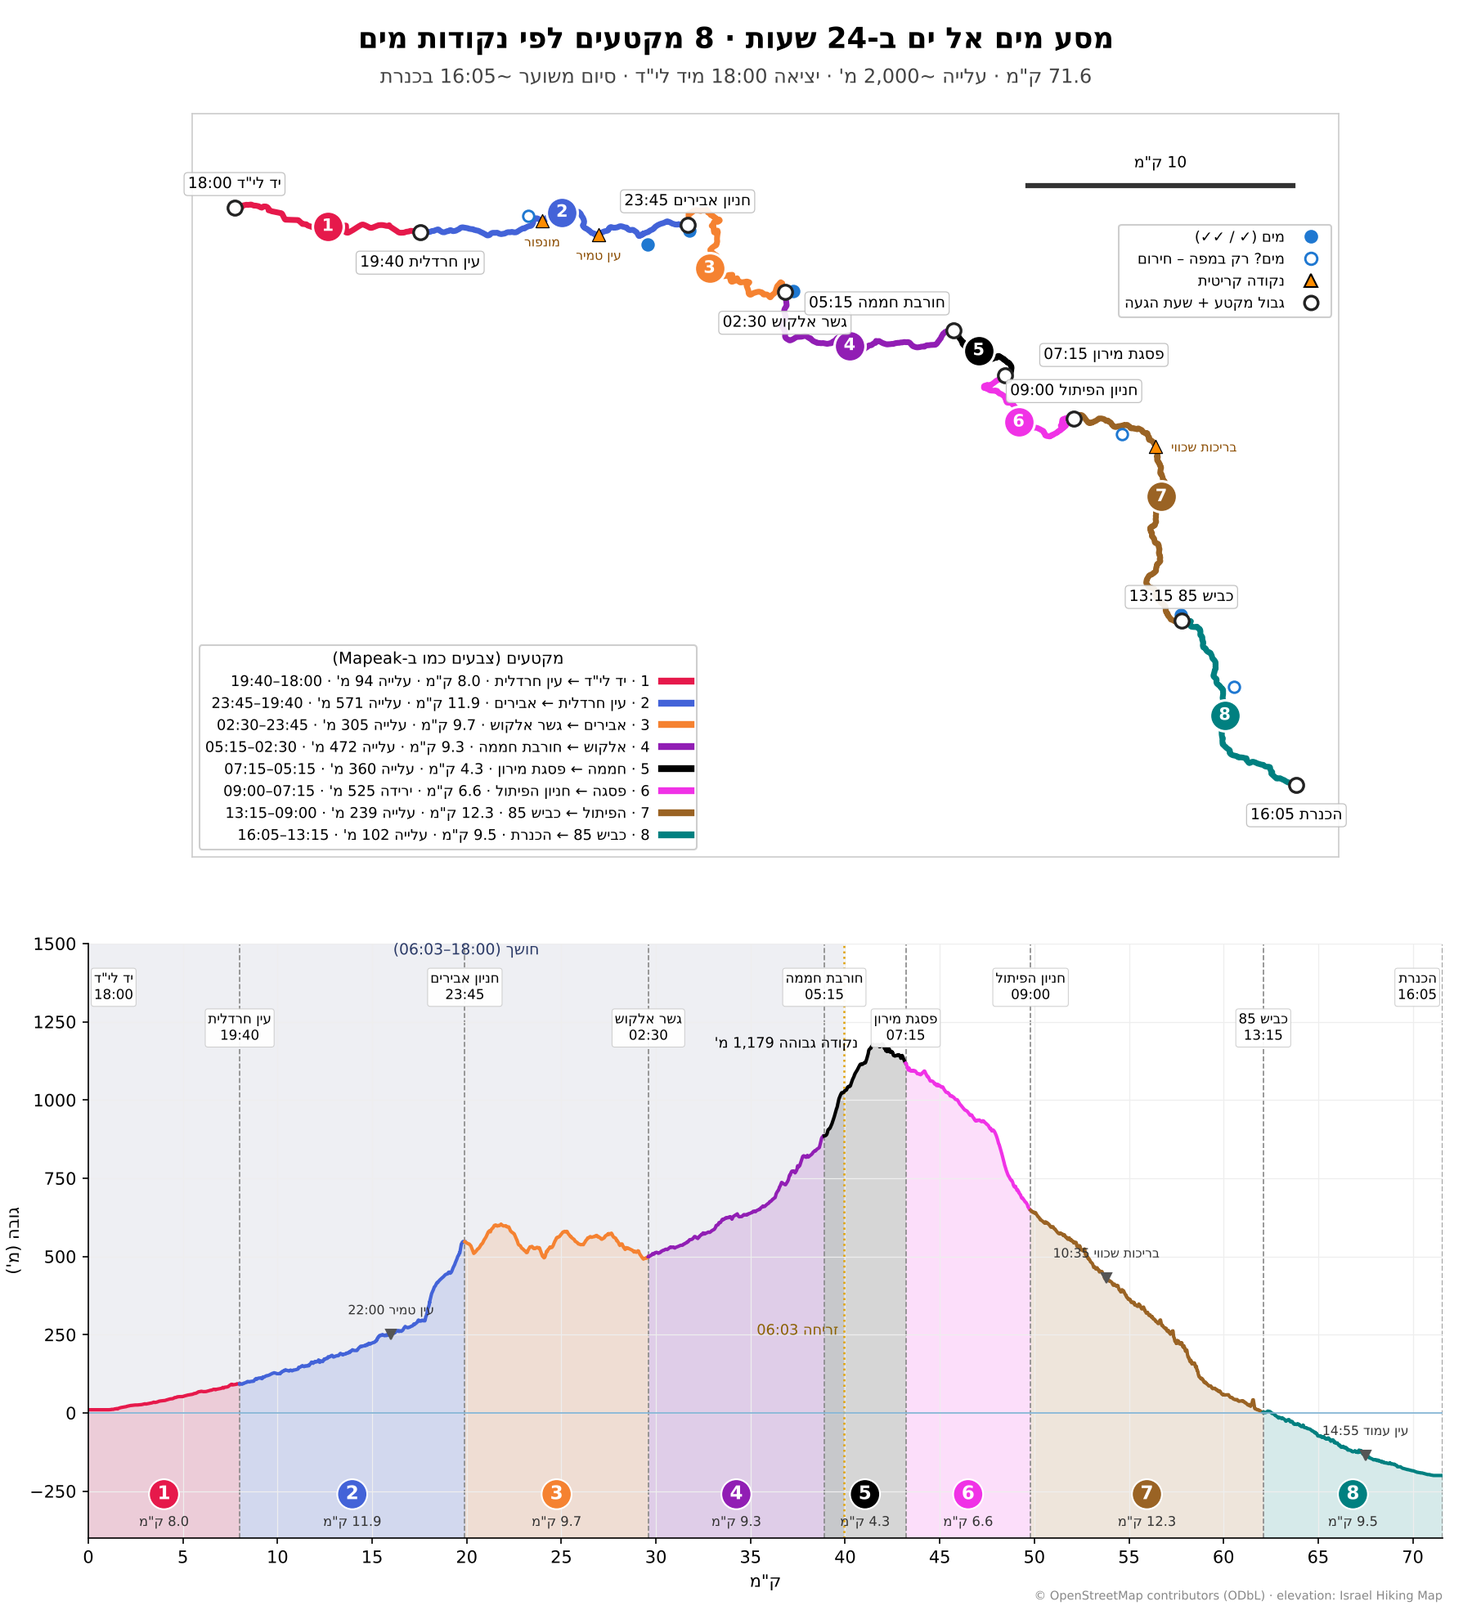
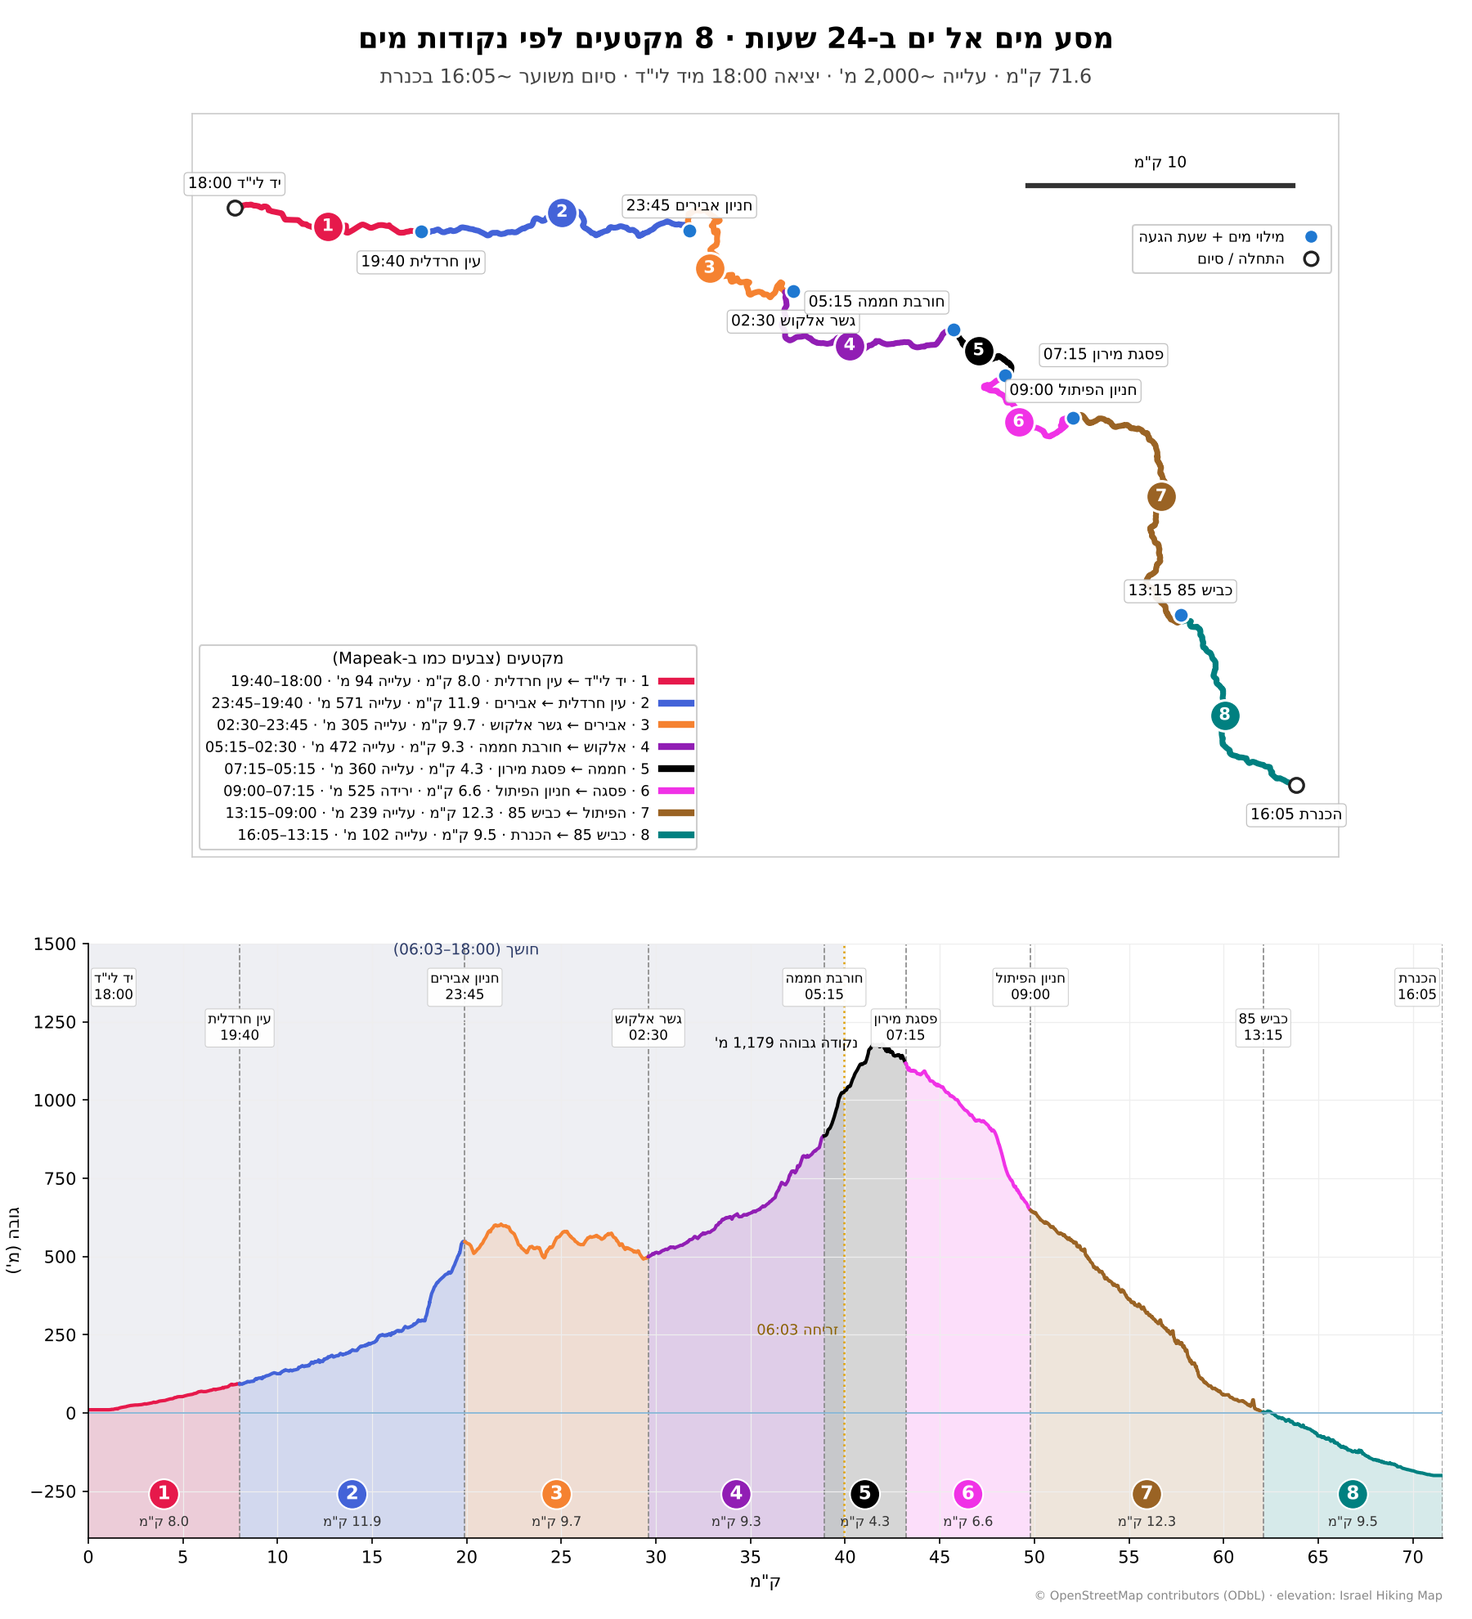
Mark only the 7 water refill points in the Yam-el-Yam GPX
Drop the warning, stop, finish and backup/emergency water waypoints:
the GPX now carries one waypoint per refill point (Ein Hardalit,
Avirim, Alkosh, Hamama, Meron summit, HaPitul, Road 85) with a short
water-only note. The preview map shows the same points.

Claude-Session: https://claude.ai/code/session_01MNH4TYKaUTJ7EVXjw48Bsd

diff --git a/yam-el-yam/build_gpx.py b/yam-el-yam/build_gpx.py
@@ -9,7 +9,7 @@ Steps:
   3. Add elevations from the Israel Hiking Map API (200 points per request).
   4. Cut the track at the water points (km 0, 8.0, 19.9, 29.6, 38.9, 43.2,
      49.8, 62.1, end) into 8 colored <trk> elements that Mapeak can show.
-  5. Add <wpt> for the water points and the critical points.
+  5. Add a <wpt> for each water refill point, and nothing else.
 
 Outputs (in --out):
   yam-el-yam-color-segments.gpx    8 colored tracks + waypoints (load this one into Mapeak)
@@ -66,51 +66,20 @@ SEGMENTS = [
      "בכנרת: חזירי בר בשביל הבמבוק וכלבים משוטטים."),
 ]
 
-# Water points: plan km, name, lat, lon, reliability, description.
-# Reliability: "✓✓" several sources, "✓" report from Aug 2026, "?" only on the map.
-WATER = [
-    (0.0, 'יד לי"ד', 33.0507888, 35.1033871, "✓",
-     "התחלה. הברז היה תקול במרץ 2025 – לא לסמוך עליו: יוצאים עם 3 ל' מהבית."),
-    (8.0, "עין חרדלית", 33.04234, 35.1783894, "✓",
-     "על השביל. להשלים ל-3 ל'. עצירה 10 דק' (~19:40). לא שותים ממי נחל כזיב (הנחיית רט\"ג)."),
-    (12.8, "פארק גורן", 33.0476962, 35.221841, "?",
-     "רק במפה. 250 מ' בעלייה. חירום בלבד."),
-    (18.0, "עין זיו", 33.0379679, 35.2701392, "✓",
-     "סטייה של ~430 מ'. רק אם נשאר פחות מ-1 ל'."),
-    (19.9, "חניון אבירים", 33.0428189, 35.2868911, "✓✓",
-     "300 מ' מהחיבור לכביש 8925 לכיוון אבירים, משמאל. 2 ל'. "
-     "עצירה 25 דק' (~23:45): אוכל, גרביים. שער 1: להגיע עד 01:00."),
-    (29.6, "גשר אלקוש", 33.0222440, 35.3288989, "✓✓",
-     "תחנת דלק (חורפיש) + מכולת מנטה, 24/7, ~300 מ'. 2 ל'. עצירה 10 דק' (~02:30): קפה."),
-    (38.9, "חורבת חממה", 33.0090773, 35.3936043, "✓✓",
-     "על השביל. 1.5 ל'. גיבוי: בי\"ס שדה מירון 300 מ'. "
-     "עצירה 25 דק' (~05:15): ארוחה, גרביים, קפה."),
-    (43.2, "חניון פסגת מירון", 32.9935301, 35.41435, "✓✓",
-     "על השביל. 1.5 ל'. עצירה 10 דק' (~07:15). שער 2: להגיע עד 08:30."),
-    (49.8, "חניון הפיתול", 32.979093, 35.442061, "✓✓",
-     "על השביל. 3 ל' מלא. גיבוי: תחנת דלק במירון ~900 מ'. עצירה 25 דק' (~09:00). "
-     "שער 3: יוצאים עד 10:00, אחרת מסיימים בכביש 866."),
-    (52.0, "חניון שמורת נחל עמוד", 32.9736964, 35.4618467, "?",
-     "רק במפה. ~300 מ'. חירום."),
-    (62.1, "כביש 85 – ברז מקורות", 32.912308, 35.4853811, "✓✓",
-     "בצד המערבי של המתחם, מצפון לכביש. ~220 מ'. 3 ל' מלא – מים אחרונים. "
-     "עצירה 15 דק' (~13:15). שער 4: יוצאים עד 14:00, אחרת לא נכנסים לעמוד התחתון בחושך."),
-    (65.8, "ליד כחל", 32.8880369, 35.5070891, "?",
-     "רק במפה. 440 מ'. חירום."),
+# Water refill points, the only waypoints in the GPX (one at the start of each segment
+# after the first): plan km, name, lat, lon, what to know there.
+REFILL = [
+    (8.0, "עין חרדלית", 33.04234, 35.1783894, "ברז על השביל. ממלאים ל-3 ל'."),
+    (19.9, "חניון אבירים", 33.0428189, 35.2868911,
+     "ברז בחניון הלילה, 300 מ' מהחיבור לכביש 8925 לכיוון אבירים, משמאל. 2 ל'."),
+    (29.6, "גשר אלקוש", 33.0222440, 35.3288989,
+     "תחנת הדלק (חורפיש) ומכולת מנטה, פתוחות 24/7, כ-300 מ' מהשביל. 2 ל'."),
+    (38.9, "חורבת חממה", 33.0090773, 35.3936043, "ברז על השביל. 1.5 ל'. גיבוי: בי\"ס שדה מירון, 300 מ'."),
+    (43.2, "חניון פסגת מירון", 32.9935301, 35.41435, "ברז על השביל. 1.5 ל'."),
+    (49.8, "חניון הפיתול", 32.979093, 35.442061, "ברז על השביל. 3 ל' מלא. גיבוי: תחנת דלק במירון, כ-900 מ'."),
+    (62.1, "כביש 85 – ברז מקורות", 32.912308, 35.4853811,
+     "בצד המערבי של המתחם, מצפון לכביש, כ-220 מ' מהשביל. 3 ל' מלא – מים אחרונים."),
 ]
-
-# Critical points placed on the route by km: km, name, description, kind, short map label.
-ROUTE_POINTS = [
-    (13.1, "מתחת למונפור", "לא עולים למבצר. אם הנחל גבוה, הולכים בדרך העפר שבגדה.", "warn", "מונפור"),
-    (16.0, "עין טמיר – פנייה לאבירים",
-     "מכאן עולים לאבירים – קל לפספס את הפנייה. עצירה 15 דק' (~22:00).", "warn", "עין טמיר"),
-    (53.8, "בריכות שכווי", "מכאן קטעי יתדות וסלע. לאט ובזוג. עצירה 10 דק' (~10:35).", "warn",
-     "בריכות שכווי"),
-    (67.5, "עין עמוד", "עצירה 10 דק' (~14:55).", "stop", "עין עמוד"),
-]
-
-END_DESC = ("סוף המסלול (~16:05). מים: ברזיות בחוף חוקוק ~1 ק\"מ צפונה, ותחנת דלק דור אלון ליד כביש 90. "
-            "בכנרת: חזירי בר בשביל הבמבוק וכלבים משוטטים.")
 
 # Plan: km, arrival (clock), stop minutes, name. Used for the preview and for the
 # km at sunrise. Arrival times after midnight belong to the next day.
@@ -417,28 +386,21 @@ def render_png(path, segs, wpts, pts, cum, sched, sunrise_km, ascent):
         ax.scatter([mid[1]], [mid[0]], s=330, color=s["color"], edgecolor="white", linewidth=1.5, zorder=6)
         ax.text(mid[1], mid[0], str(s["n"]), color="white", ha="center", va="center", fontsize=10,
                 weight="bold", zorder=7)
-    for w in wpts:
-        if w["type"] == "מים":
-            hollow = w["rel"] == "?"
-            ax.scatter([w["lon"]], [w["lat"]], s=42, marker="o", zorder=8,
-                       facecolor="white" if hollow else "#1f78d1", edgecolor="#1f78d1", linewidth=1.4)
-        elif w["type"] == "זהירות":
-            ax.scatter([w["lon"]], [w["lat"]], s=60, marker="^", color="#ff8c00", edgecolor="black",
-                       linewidth=0.6, zorder=8)
-            dx, dy, ha = (9, -1, "left") if w["short"] == "בריכות שכווי" else (0, -13, "center")
-            ax.annotate(H(w["short"]), (w["lon"], w["lat"]), xytext=(dx, dy), textcoords="offset points",
-                        ha=ha, va="center", fontsize=7.5, color="#8a4b00", zorder=8)
-    # boundary labels: name + planned arrival
+    # start, the refill points (at the tap itself) and the end, each with its planned arrival
     label_pos = {0: (0, 14), 1: (0, -18), 2: (0, 14), 3: (0, -18), 4: (-45, 16), 5: (58, 12), 6: (0, 16),
                  7: (0, 14), 8: (0, -18)}
     bounds = [s["s0"] for s in segs] + [segs[-1]["s1"]]
     names = [s["from_full"] for s in segs] + ["הכנרת"]
     times = [s["time"].split("–")[0] for s in segs] + [segs[-1]["time"].split("–")[1]]
     for j, (b, nm, tm) in enumerate(zip(bounds, names, times)):
-        p = point_at(pts, cum, b)
-        ax.scatter([p[1]], [p[0]], s=70, color="white", edgecolor="#222", linewidth=1.6, zorder=9)
+        if 0 < j < len(bounds) - 1:
+            lat, lon = wpts[j - 1]["lat"], wpts[j - 1]["lon"]
+            ax.scatter([lon], [lat], s=80, color="#1f78d1", edgecolor="white", linewidth=1.4, zorder=9)
+        else:
+            lat, lon, _ = point_at(pts, cum, b)
+            ax.scatter([lon], [lat], s=70, color="white", edgecolor="#222", linewidth=1.6, zorder=9)
         dx, dy = label_pos[j]
-        ax.annotate(H(f"{nm} {tm}"), (p[1], p[0]), xytext=(dx, dy), textcoords="offset points",
+        ax.annotate(H(f"{nm} {tm}"), (lon, lat), xytext=(dx, dy), textcoords="offset points",
                     ha="center", va="center", fontsize=9, zorder=10,
                     bbox=dict(boxstyle="round,pad=0.25", fc="white", ec="#bbb", lw=0.6, alpha=0.9))
     ax.set_aspect(1 / math.cos(math.radians(lat0)))
@@ -463,13 +425,10 @@ def render_png(path, segs, wpts, pts, cum, sched, sunrise_km, ascent):
     leg1 = ax.legend(seg_handles, seg_labels, loc="lower left", fontsize=8.6, frameon=True, framealpha=0.95,
                      markerfirst=False, title=H("מקטעים (צבעים כמו ב-Mapeak)"), title_fontsize=9.5)
     ax.add_artist(leg1)
-    mk = [Line2D([], [], marker="o", ls="", markerfacecolor="#1f78d1", markeredgecolor="#1f78d1", markersize=7),
-          Line2D([], [], marker="o", ls="", markerfacecolor="white", markeredgecolor="#1f78d1", markersize=7,
-                 markeredgewidth=1.4),
-          Line2D([], [], marker="^", ls="", color="#ff8c00", markeredgecolor="black", markersize=8),
+    mk = [Line2D([], [], marker="o", ls="", markerfacecolor="#1f78d1", markeredgecolor="white", markersize=8),
           Line2D([], [], marker="o", ls="", markerfacecolor="white", markeredgecolor="#222", markersize=8,
                  markeredgewidth=1.6)]
-    ax.legend(mk, [H("מים (✓ / ✓✓)"), H("מים? רק במפה – חירום"), H("נקודה קריטית"), H("גבול מקטע + שעת הגעה")],
+    ax.legend(mk, [H("מילוי מים + שעת הגעה"), H("התחלה / סיום")],
               loc="upper right", bbox_to_anchor=(1.0, 0.86), fontsize=8.6, framealpha=0.95, markerfirst=False)
 
     # ---- elevation profile
@@ -494,13 +453,6 @@ def render_png(path, segs, wpts, pts, cum, sched, sunrise_km, ascent):
         ha = "left" if j == 0 else "right" if j == len(bounds) - 1 else "center"
         ax2.text(x + {"left": 0.3, "right": -0.3, "center": 0}[ha], y, H(f"{nm}\n{tm}"), ha=ha, va="center",
                  fontsize=8, zorder=5, bbox=dict(boxstyle="round,pad=0.2", fc="white", ec="#ccc", lw=0.5, alpha=0.95))
-    for km, arr, _, nm in sched:
-        if any(abs(km - b / 1000) < 0.05 for b in bounds):
-            continue
-        p = point_at(pts, cum, km * 1000)
-        ax2.plot([km], [p[2]], marker="v", color="#555", markersize=6, zorder=6)
-        ax2.annotate(H(f"{nm} {arr:%H:%M}"), (km, p[2]), xytext=(0, 12), textcoords="offset points",
-                     ha="center", fontsize=7.5, color="#333")
     top = max(range(len(pts)), key=lambda k: pts[k][2])
     ax2.annotate(H(f"נקודה גבוהה {pts[top][2]:,.0f} מ'"), (cum[top] / 1000, pts[top][2]), xytext=(-14, 0),
                  textcoords="offset points", ha="right", va="center", fontsize=8.5, color="#000")
@@ -536,7 +488,7 @@ def main():
     path = shortest_path(nodes, ways, members, START_NODE, END_NODE)
     latlon = [nodes[n] for n in path]
 
-    wpt_coords = [(w[2], w[3]) for w in WATER] + [nodes[END_NODE]]
+    wpt_coords = [(w[2], w[3]) for w in REFILL]
     eles = elevations(latlon + wpt_coords, args.cache)
     pts = [(lat, lon, e) for (lat, lon), e in zip(latlon, eles)]
     wpt_eles = eles[len(latlon):]
@@ -562,23 +514,13 @@ def main():
 
     # ---- waypoints
     wpts = []
-    print("\nwater points: plan km | route km | off-route m")
-    for (km, name, lat, lon, rel, desc), ele in zip(WATER, wpt_eles):
+    print("\nrefill points: plan km | route km | off-route m")
+    for (km, name, lat, lon, desc), ele in zip(REFILL, wpt_eles):
         rkm, off = project(pts, cum, lat, lon)
         flag = "  <-- check" if abs(rkm - km) > 0.3 else ""
         print(f"  {name:<24} {km:5.1f} | {rkm:6.2f} | {off:5.0f}{flag}")
-        prefix = "מים?" if rel == "?" else "מים"
-        wpts.append(dict(lat=lat, lon=lon, ele=ele, rel=rel, short=name, type="מים", sym="Drinking Water",
-                         name=f'{prefix} · {name} (ק"מ {km_label(km)})',
-                         desc=f"{rel} · {desc}" + (f" [קו אווירי מהשביל: {off:.0f} מ']" if off > 50 else "")))
-    for km, name, desc, kind, short in ROUTE_POINTS:
-        lat, lon, ele = point_at(pts, cum, km * 1000)
-        wpts.append(dict(lat=lat, lon=lon, ele=ele, rel="", short=short, type="זהירות" if kind == "warn" else "עצירה",
-                         sym="Danger Area" if kind == "warn" else "Waypoint",
-                         name=f'{"זהירות" if kind == "warn" else "עצירה"} · {name} (ק"מ {km_label(km)})', desc=desc))
-    end_lat, end_lon = nodes[END_NODE]
-    wpts.append(dict(lat=end_lat, lon=end_lon, ele=wpt_eles[-1], rel="", short="הכנרת", type="סיום", sym="Flag, Red",
-                     name=f'סיום · הכנרת (ק"מ {total / 1000:.1f})', desc=END_DESC))
+        wpts.append(dict(lat=lat, lon=lon, ele=ele, type="מים", sym="Drinking Water",
+                         name=f'מים · {name} (ק"מ {km_label(km)})', desc=desc))
 
     # ---- GPX files
     lats = [p[0] for p in pts] + [w["lat"] for w in wpts]

diff --git a/yam-el-yam/README.md b/yam-el-yam/README.md
@@ -2,8 +2,8 @@
 
 | קובץ | מה זה |
 |---|---|
-| `yam-el-yam-color-segments.gpx` | **הקובץ ל-Mapeak.** 8 מקטעים צבעוניים (טראק נפרד לכל מקטע) + 17 נקודות: מים, זהירות, עצירה, סיום |
-| `yam-el-yam-water-v3.gpx` | אותו מסלול בטראק אחד, עם אותן נקודות. לאפליקציות או שעונים שלא מסתדרים עם כמה טראקים |
+| `yam-el-yam-color-segments.gpx` | **הקובץ ל-Mapeak.** 8 מקטעים צבעוניים (טראק נפרד לכל מקטע) + 7 נקודות מילוי מים, בלי שום סימון אחר |
+| `yam-el-yam-water-v3.gpx` | אותו מסלול בטראק אחד, עם אותן 7 נקודות. לאפליקציות או שעונים שלא מסתדרים עם כמה טראקים |
 | `yam-el-yam-segments-preview.png` | תמונת תצוגה: מפה ופרופיל גובה לפי מקטעים |
 | `build_gpx.py` | הסקריפט שבונה את כל הקבצים מחדש |
 
@@ -55,7 +55,7 @@
 
 כל הנקודות יוצאות במרחק של עד 0.1 ק"מ מהק"מ שבתוכנית.
 
-נקודות זהירות במסלול: מתחת למונפור (ק"מ 13.1), עין טמיר – הפנייה לאבירים (ק"מ 16), בריכות שכווי – יתדות וסלע (ק"מ 53.8). יש גם נקודת עצירה בעין עמוד (ק"מ 67.5), ונקודת סיום עם מים ואזהרה על חזירי בר.
+בקובץ מסומנות רק 7 נקודות המילוי: עין חרדלית, אבירים, אלקוש, חממה, פסגת מירון, הפיתול וכביש 85. יד לי"ד, הגיבוי בעין זיו ונקודות החירום (המסומנות ב-?) מופיעים רק בטבלה הזאת. נקודות הזהירות והעצירות מופיעות רק במסמך התוכנית.
 
 ## בנייה מחדש
 
@@ -64,7 +64,7 @@ pip install matplotlib
 python3 -I yam-el-yam/build_gpx.py --cache /tmp/yam-cache --out yam-el-yam
 ```
 
-הסקריפט צריך גישה ל-`api.openstreetmap.org` (המסלול) ול-`israelhiking.osm.org.il` (הגבהים). בתיקיית ה-cache נשמרים המסלול שהורד וגם הגבהים, ובהרצה הבאה לא מורידים אותם שוב. כדי לשנות שעות, נקודות או גבולות מקטעים, עורכים את הקבועים בראש הסקריפט: `CUT_KM`, `SEGMENTS`, `WATER`, `ROUTE_POINTS`, `SCHEDULE`.
+הסקריפט צריך גישה ל-`api.openstreetmap.org` (המסלול) ול-`israelhiking.osm.org.il` (הגבהים). בתיקיית ה-cache נשמרים המסלול שהורד וגם הגבהים, ובהרצה הבאה לא מורידים אותם שוב. כדי לשנות שעות, נקודות או גבולות מקטעים, עורכים את הקבועים בראש הסקריפט: `CUT_KM`, `SEGMENTS`, `REFILL`, `SCHEDULE`.
 
 הדרך: OSM relation 2860967 ("מסע מים אל ים"). בונים גרף מכל ה-ways שלו ומחשבים את המסלול הקצר ביותר מ-node 13289769538 (יד לי"ד) ל-node 10254819616 (הכנרת). הגבהים מגיעים מ-Israel Hiking Map, ב-200 נקודות לכל בקשה. אחר כך חותכים את המסלול בק"מ 0, 8.0, 19.9, 29.6, 38.9, 43.2, 49.8, 62.1 ובסוף. כל מקטע נשמר כ-`<trk>` עם `<extensions><Color>/<Opacity>/<Weight>`, וזה מה ש-Mapeak קורא כצבע.
 
